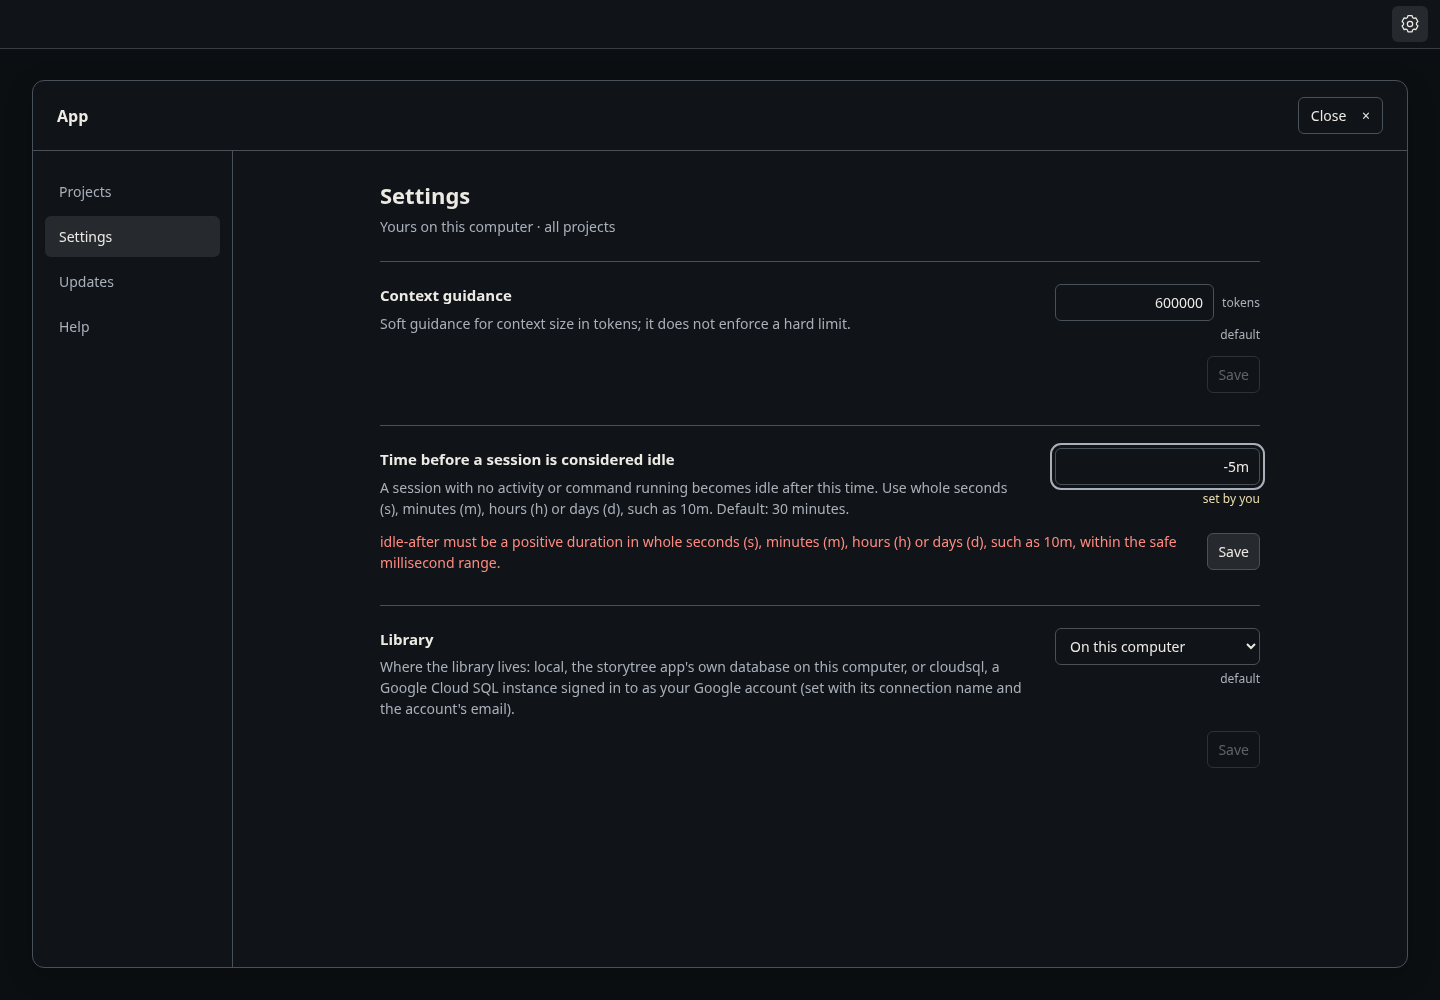
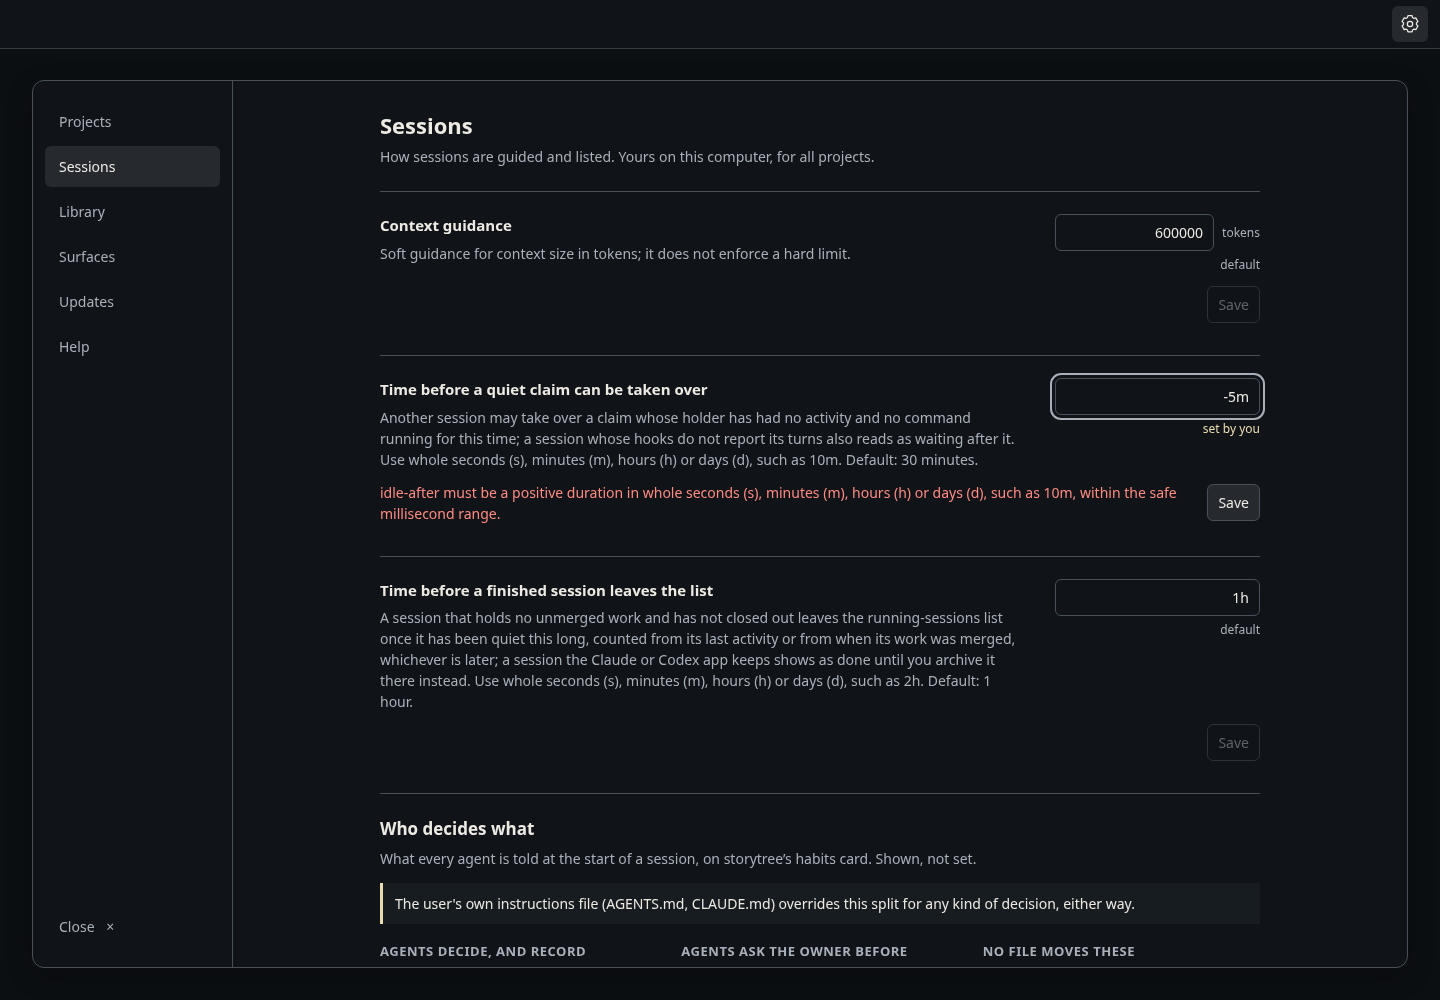
Agent link: the idle-setting capture walks to the app menu's Sessions tab again
The capture clicked a Settings button the app menu no longer has; settings
are now group tabs. It opens the Sessions tab, stubs the bridge's
standingDelegations for the decision-rights panel mounted beside it, and
retakes settings-default, -saved and -refused.

diff --git a/packages/agent-link/evidence/idle-setting/README.md b/packages/agent-link/evidence/idle-setting/README.md
@@ -18,7 +18,7 @@ keeps the 30-minute default; its bridge is outside this lane and the supervisor 
 - `verification.txt`: complete local verification summary and test scope/table.
 - `typecheck.txt`: full workspace typecheck.
 - `test-ratio.txt`: informational report, not a gate.
-- `capture.mjs` / `capture.txt`: headless checks of real gear/settings components with real writers
+- `capture.mjs` / `capture.txt`: headless checks of the real app menu's Sessions settings tab with real writers
   and a throwaway home. No live library is involved.
 - `settings-default.png`, `settings-saved.png`, `settings-refused.png`: component captures for review.
 - `library-update/`: supervisor-applied patch and checklist matching this implementation.
